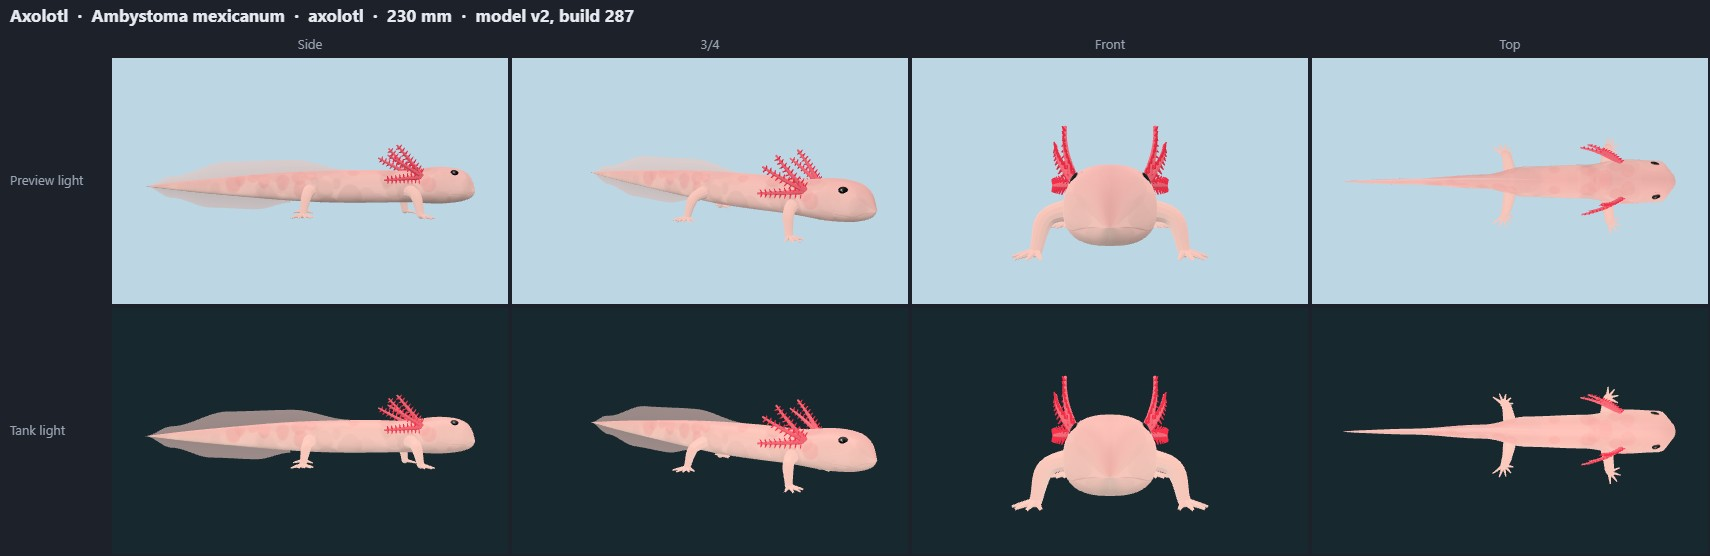
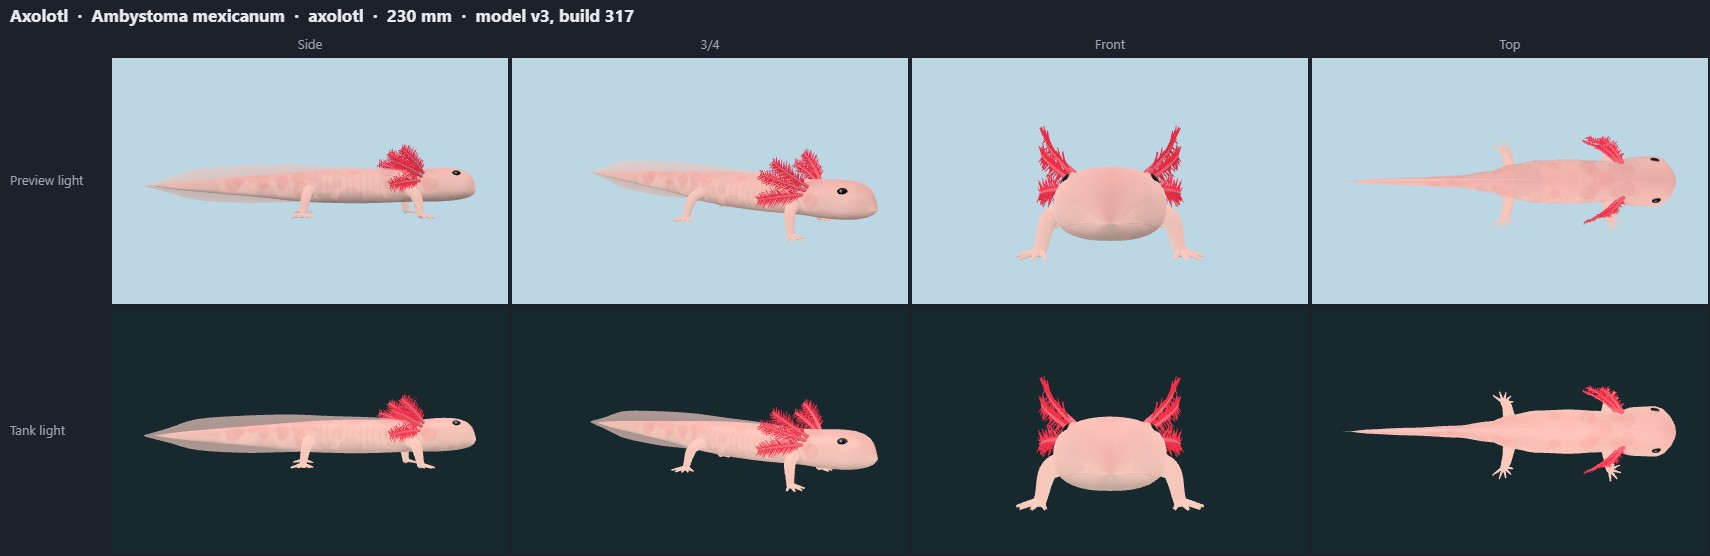
Lane R (audit P2): axolotl feathery gills, trunk, continuous fin; nerite clean shell, low wide foot
Axolotl: filament plumes on the three gill rami, broader head and fuller trunk with costal
grooves, one fin from the shoulders round the tail tip to the vent. Zebra nerite: level aperture
with a thin lip, foot as wide as the shell, smoother rim, no false suture, smooth aperture cut and
seamless stripes (nerite-only Shell3D fields). Models v3 at build 317.

diff --git a/src/render/snail3d.ts b/src/render/snail3d.ts
@@ -24,7 +24,7 @@ function shade(g: THREE.BufferGeometry, dark = 0.28, flank = 0) {
   g.setAttribute('color', new THREE.Float32BufferAttribute(col, 3));
 }
 
-const TH = 160, PH = 24; // samples along the coil, around the whorl
+const TH = 160, PH0 = 24; // samples along the coil, around the whorl (a shell's own `ph` overrides)
 
 /** A coil's frame: growth k per radian, total angle T, the whorl centre / tangent at angle th (shell frame, coil axis = y, spire up). */
 function coil(s: Shell3D) {
@@ -63,7 +63,7 @@ export function sutures(s: Shell3D): [number, number] | null {
  * Then a dark mantle cavity closes it, its rim on duplicated lip vertices so the lip keeps a crisp edge.
  */
 function rawShell(s: Shell3D) {
-  const { T, k, pt } = coil(s), drop = s.drop, pos: number[] = [], uv: number[] = [], idx: number[] = [];
+  const PH = s.ph ?? PH0, { T, k, pt } = coil(s), drop = s.drop, pos: number[] = [], uv: number[] = [], idx: number[] = [];
   const C = new THREE.Vector3(...pt(T, 0, 0));
   const tan = new THREE.Vector3(k * Math.cos(T) - Math.sin(T), -k * drop, k * Math.sin(T) + Math.cos(T)).normalize();
   const b = (s.incl ?? 0) * Math.PI / 180, n = tan.clone().multiplyScalar(Math.cos(b)).add(new THREE.Vector3(0, -Math.sin(b), 0)).normalize();
@@ -73,11 +73,24 @@ function rawShell(s: Shell3D) {
     const ph = Math.PI * 2 * j / PH, d = (t: number) => P.set(...pt(t, ph)).sub(C).dot(n);
     let t = T;
     for (let it = 0; it < 6; it++) { const e = 1e-4, f0 = d(t), f1 = (d(t + e) - f0) / e; if (Math.abs(f1) < 1e-6) break; t -= f0 / f1; }
+    if (s.fillCut) return Math.abs(t - T) < 0.6 && Math.abs(d(t)) < 1e-4 ? t : NaN;
     return Math.max(T - 0.6, Math.min(T + 0.6, t)); // a fast-growing coil (nerite) can find a far crossing: stay on the last whorl
   });
+  // `fillCut`: where the inner side of the whorl never meets the plane (a nerite's columella), run the cut on smoothly
+  // between the rows that do, so the rim has no jumps (clamped, those rows ended at +-0.6 alternately: a crease)
+  const ok = ends.map(Number.isFinite);
+  if (!ok.some(Boolean)) ends.fill(T);
+  else for (let j = 0; j < PH; j++) if (!ok[j]) {
+    let a = j, b = j; do a = (a - 1 + PH) % PH; while (!ok[a]); do b = (b + 1) % PH; while (!ok[b]);
+    const da = (j - a + PH) % PH || PH, db = (b - j + PH) % PH || PH, w = da / (da + db), k = (1 - Math.cos(Math.PI * w)) / 2;
+    ends[j] = ends[a] + (ends[b] - ends[a]) * k;
+  }
+  if (!ok[PH]) ends[PH] = ends[0];
+  // with `fillCut` the paint follows the coil's angle (each row ends at its own angle: by sample, stripes stepped row to row)
+  const end = Math.max(...ends);
   for (let i = 0; i <= TH; i++) for (let j = 0; j <= PH; j++) {
     const u = i / TH, th = ends[j] * u, w = Math.min(1, Math.max(0, (u - 1 + LIP) / LIP)), f = 1 + (F - 1) * w * w * (3 - 2 * w);
-    pos.push(...pt(th, Math.PI * 2 * j / PH, f)); uv.push(u, j / PH);
+    pos.push(...pt(th, Math.PI * 2 * j / PH, f)); uv.push(s.fillCut ? th / end : u, j / PH);
   }
   const R = PH + 1;
   for (let i = 0; i < TH; i++) for (let j = 0; j < PH; j++) { const a = i * R + j, c = a + R; idx.push(a, c, a + 1, a + 1, c, c + 1); }
@@ -102,7 +115,7 @@ function rawShell(s: Shell3D) {
  * shell (lift 0) stands on the ground. userData.lip / open = the aperture ring and the way it faces, body frame.
  */
 function shellGeometry(s: Shell3D, lift: number) {
-  const { g, n, rim, cap } = rawShell(s);
+  const PH = s.ph ?? PH0, { g, n, rim, cap } = rawShell(s);
   const down = new THREE.Vector3(...(s.open ?? [0.25, -1, 0])).normalize(), q1 = new THREE.Quaternion().setFromUnitVectors(n, down);
   const flat = (v: THREE.Vector3) => v.clone().projectOnPlane(down).normalize();
   const spire = flat(new THREE.Vector3(0, 1, 0).applyQuaternion(q1)), want = flat(new THREE.Vector3(...s.axis));
@@ -139,10 +152,12 @@ function shellTexture(s: Shell3D, sp: Pick<SnailSpec, 'shell' | 'mark'>) {
   const r = (() => { let a = 7; return () => ((a = (a * 16807) % 2147483647) / 2147483647); })();
   x.strokeStyle = sp.mark;
   if (s.mark === 'axial') { // zebra: wavy stripes across the whorl, fourteen per turn
+    // one whole sine wave round the whorl, so a stripe meets itself where the paint wraps (an S-curve chevroned there);
+    // drawn on past both edges so the slanted stroke's flat ends do not notch the rows the wrap lands on
     const n = Math.round(s.turns * 14);
     for (let i = 0; i < n; i++) {
       const u = (i + 0.5) / n * W; x.globalAlpha = 0.85; x.lineWidth = W / n * 0.38;
-      x.beginPath(); x.moveTo(u, 0); x.bezierCurveTo(u - W / n * 0.5, H * 0.33, u + W / n * 0.5, H * 0.66, u, H); x.stroke();
+      x.beginPath(); for (let k = -4; k <= 36; k++) x.lineTo(u + W / n * 0.3 * Math.sin(k / 32 * Math.PI * 2), H * k / 32); x.stroke();
     }
   } else if (s.mark === 'spiral') { // faint bands along the coil
     for (const v of [0.1, 0.3, 0.62]) { x.globalAlpha = 0.4; x.fillStyle = sp.mark; x.fillRect(0, v * H, W, H * 0.04); }
@@ -156,7 +171,7 @@ function shellTexture(s: Shell3D, sp: Pick<SnailSpec, 'shell' | 'mark'>) {
     for (let i = 0; i < n; i++) { const u = (i + 0.5) / n * W; x.globalAlpha = 0.45; x.lineWidth = W / n * 0.18; x.beginPath(); x.moveTo(u, 0); x.lineTo(u - 6, H); x.stroke(); }
   }
   // the suture: where each whorl runs in under the one before it, a dark seam and a little shade just below it
-  const su = sutures(s);
+  const su = s.seam === false ? null : sutures(s);
   if (su) {
     const y = row(su[1]) * H;
     const sh = x.createLinearGradient(0, y, 0, y + H * 0.08);
@@ -184,7 +199,7 @@ function footGeometry(s: Shell3D, h: number) {
 }
 
 /** The head: a rounded snout over the front of the foot, the tentacles on top of it. Returns its centre and radius. */
-const headAt = (s: Shell3D, h: number) => { const { L, c, w } = footSpan(s), r = Math.max(0.045, L * w * 0.62); return { x: c + L - r, y: h * 0.82, r }; };
+const headAt = (s: Shell3D, h: number) => { const { L, c, w } = footSpan(s), r = s.head ?? Math.max(0.045, L * w * 0.62); return { x: c + L - r, y: h * 0.82, r }; };
 function headGeometry(s: Shell3D, h: number) {
   const { x, y, r } = headAt(s, h), g = new THREE.SphereGeometry(1, 20, 12);
   g.scale(r * 1.4, r * 0.75, r * 0.85).translate(x, y, 0);
@@ -278,15 +293,15 @@ export function snailBody(art: string, w: number) {
     const m = new THREE.MeshBasicMaterial({ vertexColors: true, color: new THREE.Color(sp.foot[1]).lerp(new THREE.Color(sp.foot[0]), 0.4) });
     return m;
   });
-  const shell = shellMesh(art, s, sp, FOOT_H), sg = shell.geometry;
-  shell.add(new THREE.Mesh(geo(':plug', () => plugGeometry(s, sg.userData.lip, sg.userData.open, FOOT_H)), skin)); // turns with the shell (sagShell)
+  const fh = s.footH ?? FOOT_H, shell = shellMesh(art, s, sp, fh), sg = shell.geometry;
+  shell.add(new THREE.Mesh(geo(':plug', () => plugGeometry(s, sg.userData.lip, sg.userData.open, fh)), skin)); // turns with the shell (sagShell)
   grp.add(shell); // first child: sagShell turns children[0]
-  grp.add(new THREE.Mesh(geo(':foot', () => footGeometry(s, FOOT_H)), skin));
-  grp.add(new THREE.Mesh(geo(':head', () => headGeometry(s, FOOT_H)), skin));
-  for (const side of [1, -1]) grp.add(new THREE.Mesh(geo(':tent' + side, () => tentacleGeometry(s, FOOT_H, side)), skin));
+  grp.add(new THREE.Mesh(geo(':foot', () => footGeometry(s, fh)), skin));
+  grp.add(new THREE.Mesh(geo(':head', () => headGeometry(s, fh)), skin));
+  for (const side of [1, -1]) grp.add(new THREE.Mesh(geo(':tent' + side, () => tentacleGeometry(s, fh, side)), skin));
   grp.add(new THREE.Mesh(geo(':sole', () => soleGeometry(s)), mat('sole:' + art, () => new THREE.MeshBasicMaterial({ map: soleTexture(sp) }))));
   grp.scale.setScalar(w);
-  grp.userData.pivot = new THREE.Vector3(s.at - 0.5, FOOT_H * 0.55, 0); // where the shell sits on the foot
+  grp.userData.pivot = new THREE.Vector3(s.at - 0.5, fh * 0.55, 0); // where the shell sits on the foot
   return grp;
 }
 

diff --git a/src/art/herps.ts b/src/art/herps.ts
@@ -180,10 +180,12 @@ function salSide(s: SalSpec): Pt[] {
     [0.78, cv - tr * 0.95], [0.68, cv - tr], [0.55, cv - tr * 1.02], [0.45, cv - tr * 1.06], [0.32, cv - tr * 1.06], [0.2, cv - tr * 1.0],
     [0.1, cv - tr * 0.82], [0.035, cv - tr * 0.5], [0.0, cv - tr * 0.15, 'c'], [0.03, cv + tr * 0.25], [0.1, cv + tr * 0.55], [0.2, cv + tr * 0.72], [0.32, cv + tr * 0.82], [0.44, cv + tr * 0.9],
     [0.52, cv + tr], [0.68, cv + tr], [0.8, cv + tr * 0.95], [0.88, cv + hd * 0.85], [0.95, cv + hd * 0.72], [0.99, cv + hd * 0.45]];
-  return [[1.0, cv + hd * 0.25, 'c'], [0.985, cv - hd * 0.6], [0.94, cv - hd * 0.95], [0.87, cv - hd], [0.8, cv - tr * 0.9],
-    [0.7, cv - tr], [0.55, cv - tr * 0.95], [0.42, cv - tr * 0.85], [0.28, cv - tr * 0.6], [0.14, cv - tr * 0.35], [0.0, cv, 'c'],
-    [0.14, cv + tr * 0.35], [0.28, cv + tr * 0.6], [0.42, cv + tr * 0.85], [0.55, cv + tr], [0.7, cv + tr], [0.8, cv + tr * 0.95],
-    [0.88, cv + hd * 0.9], [0.95, cv + hd * 0.8], [0.99, cv + hd * 0.6]];
+  // axolotl: broad flat head, a slight neck behind the gills, a full belly sagging to the vent, the muscular tail tapering
+  // to just short of the fin's tip (the fin carries the outline on round it)
+  return [[1.0, cv + hd * 0.2, 'c'], [0.985, cv - hd * 0.55], [0.95, cv - hd * 0.85], [0.9, cv - hd * 0.92], [0.84, cv - hd * 0.82],
+    [0.78, cv - tr * 0.92], [0.68, cv - tr * 0.98], [0.56, cv - tr * 0.95], [0.46, cv - tr * 0.82], [0.34, cv - tr * 0.62], [0.2, cv - tr * 0.4],
+    [0.09, cv - tr * 0.2], [0.03, cv, 'c'], [0.09, cv + tr * 0.22], [0.2, cv + tr * 0.42], [0.34, cv + tr * 0.66], [0.46, cv + tr * 0.95],
+    [0.56, cv + tr * 1.04], [0.68, cv + tr * 1.06], [0.8, cv + tr * 0.95], [0.88, cv + hd * 0.8], [0.95, cv + hd * 0.7], [0.99, cv + hd * 0.5]];
 }
 
 function drawSal(s: SalSpec, ctx: Ctx, P0: Proj, W: number) {
@@ -193,8 +195,7 @@ function drawSal(s: SalSpec, ctx: Ctx, P0: Proj, W: number) {
   const legY = cv + tr * 0.6, foot = g - 0.004;
   limb(ctx, P, W, [[0.76, legY, 0.013], [0.725, (legY + foot) / 2, 0.01], [0.71, foot, 0.008]], [[0.69, g], [0.73, g]], toe, s.leg, true);
   limb(ctx, P, W, [[0.47, legY, 0.016], [0.43, (legY + foot) / 2, 0.012], [0.41, foot, 0.009]], [[0.38, g], [0.43, g]], toe, s.leg, true);
-  if (s.finTail) fin(ctx, P, W, [[0.62, cv - tr], [0.45, cv - tr - 0.03], [0.25, cv - tr - 0.025], [0.08, cv - 0.03], [0.0, cv, 'c'],
-    [0.08, cv + 0.035], [0.2, cv + tr + 0.015], [0.34, cv + tr + 0.02], [0.44, cv + tr]], [0.3, cv], s.finTail, darker(s.finTail, 0.75), { rays: 0, a: 0.7 });
+  if (s.finTail) { const f = axoFin(cv, tr); fin(ctx, P, W, [...f.top, [0.0, cv, 'c'], ...f.bot] as Pt[], [0.3, cv], s.finTail, darker(s.finTail, 0.75), { rays: 0, a: 0.7 }); }
   if (s.gills) gills(ctx, P, W, s, cv, true);
   // body: tail tip u = 0, head to u = 1
   body(ctx, P, W, salSide(s), cv - hd, cv + tr, shadeOf(s.skin), 0.035, l => {
@@ -207,6 +208,18 @@ function drawSal(s: SalSpec, ctx: Ctx, P0: Proj, W: number) {
   if (s.gills) gills(ctx, P, W, s, cv, false);
   line(ctx, P, W, [[0.995, cv + hd * 0.35], [0.95, cv + hd * 0.42], [0.9, cv + hd * 0.35]], 0.22, 0.003);
   herpEye(ctx, P, W, 0.925, cv - hd * 0.35, hd * 0.28, s.iris, s.pupil);
+}
+
+/**
+ * The axolotl's fin edge (card frame), one membrane: the dorsal fin rises from nothing over the shoulders, stays low
+ * along the back, deepens over the tail, runs round the pointed tip past the muscle and forward underneath to the vent.
+ */
+function axoFin(cv: number, tr: number): { top: [number, number][]; bot: [number, number][] } {
+  return {
+    top: [[0.8, cv - tr * 0.92], [0.7, cv - tr - 0.005], [0.56, cv - tr * 0.95 - 0.012], [0.44, cv - tr * 0.8 - 0.024], [0.3, cv - tr * 0.55 - 0.033],
+      [0.16, cv - tr * 0.3 - 0.035], [0.07, cv - 0.022]],
+    bot: [[0.07, cv + 0.02], [0.16, cv + tr * 0.3 + 0.028], [0.3, cv + tr * 0.55 + 0.024], [0.4, cv + tr * 0.8 + 0.01], [0.47, cv + tr * 0.97]],
+  };
 }
 
 /** Axolotl external gills: three stalks sweeping up and back from behind the head, fringed with filaments. */
@@ -472,20 +485,21 @@ export const HERP3D: Record<string, Herp3D> = {
       { k: 'spots', n: 30, u: [0.35, 0.9], a: [0.8, 1.0], r: [0.004, 0.007], c: '#2a2420', o: 0.7, seed: 13 },
       { k: 'line', pts: [[0.9, 0.62], [0.96, 0.64], [0.995, 0.58]], c: '#0e100c', o: 0.25, w: 0.003 },
     ], 1),
-  // leucistic: pale pink, faint darker mottling; broad flat head, gills, tail fin from mid-back
-  axolotl: sal3D(axo, [[0, 0.003], [0.2, 0.008], [0.42, 0.02], [0.55, 0.045], [0.72, 0.05], [0.84, 0.066], [0.94, 0.062], [1, 0.036]],
+  // leucistic: pale pink, faint darker mottling; broad flat head wider than the neck, a full rounded trunk with costal
+  // grooves down the flanks, the tail flattened side to side; one fin from the shoulders round the tail to the vent;
+  // three feathery gills a side
+  axolotl: sal3D(axo, [[0, 0.003], [0.06, 0.006], [0.2, 0.011], [0.34, 0.017], [0.44, 0.03], [0.5, 0.05], [0.58, 0.063], [0.68, 0.066],
+    [0.76, 0.062], [0.81, 0.058], [0.87, 0.073], [0.93, 0.075], [0.97, 0.063], [1, 0.042]],
     [[0, '#e9b9b4'], [0.5, '#f2cdc6'], [1, '#f6dcd4']], [
       { k: 'spots', n: 16, u: [0.2, 0.9], a: [0.0, 0.6], r: [0.016, 0.024], c: '#e3a7a2', o: 0.35, seed: 21 },
+      ...Array.from({ length: 12 }, (_, i): Mark3D => ({ k: 'line', pts: [[0.535 + i * 0.019, 0.24], [0.53 + i * 0.019, 0.45], [0.535 + i * 0.019, 0.66]], c: '#d39690', o: 0.3, w: 0.0028 })),
       { k: 'line', pts: [[0.9, 0.62], [0.96, 0.66], [0.995, 0.58]], c: '#7a4a48', o: 0.3, w: 0.003 },
     ], 1.15, {
-      fin: {
-        top: [[0.62, axoCv - axo.trunk], [0.45, axoCv - axo.trunk - 0.03], [0.25, axoCv - axo.trunk - 0.025], [0.08, axoCv - 0.03], [0, axoCv]],
-        bot: [[0, axoCv], [0.08, axoCv + 0.035], [0.2, axoCv + axo.trunk + 0.015], [0.34, axoCv + axo.trunk + 0.02], [0.44, axoCv + axo.trunk]],
-        c: '#f0d2cc', o: 0.6,
-      },
+      fin: (() => { const f = axoFin(axoCv, axo.trunk); return { top: [...f.top, [0, axoCv - 0.002]], bot: [[0, axoCv + 0.002], ...f.bot], c: '#f0d2cc', o: 0.68 }; })(),
       gills: {
         at: [0.83, axoCv - axo.head * 0.45, 0.05],
-        tips: [[0.75, axoCv - axo.head - 0.06, 0.075], [0.72, axoCv - axo.head - 0.03, 0.095], [0.71, axoCv - axo.head * 0.3, 0.1]],
+        // top: up and back; middle: back and out; bottom: back, out and a little down. Spread out from the head as a crown.
+        tips: [[0.755, axoCv - axo.head - 0.045, 0.11], [0.725, axoCv - axo.head - 0.012, 0.118], [0.72, axoCv - axo.head * 0.05, 0.122]],
         stalk: '#d9707a', fringe: '#e2505e',
       },
     }),

diff --git a/public/model-sheets/index.html b/public/model-sheets/index.html
@@ -10,7 +10,7 @@ figure { margin: 8px 0 14px; padding: 8px; background: var(--panel); border-radi
 img { display: block; max-width: 100%; height: auto }
 </style></head><body>
 <h1>Model sheets</h1>
-<p>Pre-rendered review images of every TankLook animal model (no WebGL needed): 68 models, 57 species, written at build 309.
+<p>Pre-rendered review images of every TankLook animal model (no WebGL needed): 68 models, 57 species, written at build 317.
 Each sheet shows the Side, 3/4, Front, Top views; top row in the plain preview light, bottom row at true size in the default tank's LED light and water.
 Click a sheet for the full-size image (1710 × 556 px). Interactive version: <a href="../review.html">review.html</a>.</p>
 <h2>Freshwater fish</h2>
@@ -62,7 +62,7 @@ Click a sheet for the full-size image (1710 × 556 px). Interactive version: <a 
 <h2>Freshwater inverts</h2>
 <figure id="cherryshrimp"><figcaption><b>Cherry shrimp</b> · <i>Neocaridina davidi</i> · cherryshrimp · 30 mm · model v2 (build 284, 2026-10-14)</figcaption><a href="cherryshrimp.jpg"><img src="cherryshrimp.jpg" width="1710" height="556" loading="lazy" alt="Cherry shrimp (Neocaridina davidi), model v2: Side, 3/4, Front, Top views, preview light (top row) and tank light (bottom row)"></a></figure>
 <figure id="amano"><figcaption><b>Amano shrimp</b> · <i>Caridina multidentata</i> · amano · 45 mm · model v2 (build 284, 2026-10-14)</figcaption><a href="amano.jpg"><img src="amano.jpg" width="1710" height="556" loading="lazy" alt="Amano shrimp (Caridina multidentata), model v2: Side, 3/4, Front, Top views, preview light (top row) and tank light (bottom row)"></a></figure>
-<figure id="nerite"><figcaption><b>Nerite snail (zebra)</b> · <i>Neritina natalensis</i> · nerite · 25 mm · model v2 (build 288, 2026-10-14)</figcaption><a href="nerite.jpg"><img src="nerite.jpg" width="1710" height="556" loading="lazy" alt="Nerite snail (zebra) (Neritina natalensis), model v2: Side, 3/4, Front, Top views, preview light (top row) and tank light (bottom row)"></a></figure>
+<figure id="nerite"><figcaption><b>Nerite snail (zebra)</b> · <i>Neritina natalensis</i> · nerite · 25 mm · model v3 (build 317, 2026-10-14)</figcaption><a href="nerite.jpg"><img src="nerite.jpg" width="1710" height="556" loading="lazy" alt="Nerite snail (zebra) (Neritina natalensis), model v3: Side, 3/4, Front, Top views, preview light (top row) and tank light (bottom row)"></a></figure>
 <figure id="mystery"><figcaption><b>Mystery snail</b> · <i>Pomacea diffusa</i> · mystery · 55 mm · model v2 (build 288, 2026-10-14)</figcaption><a href="mystery.jpg"><img src="mystery.jpg" width="1710" height="556" loading="lazy" alt="Mystery snail (Pomacea diffusa), model v2: Side, 3/4, Front, Top views, preview light (top row) and tank light (bottom row)"></a></figure>
 <figure id="ramshorn"><figcaption><b>Ramshorn snail</b> · <i>Planorbella duryi</i> · ramshorn · 20 mm · model v2 (build 288, 2026-10-14)</figcaption><a href="ramshorn.jpg"><img src="ramshorn.jpg" width="1710" height="556" loading="lazy" alt="Ramshorn snail (Planorbella duryi), model v2: Side, 3/4, Front, Top views, preview light (top row) and tank light (bottom row)"></a></figure>
 <figure id="trumpet"><figcaption><b>Malaysian trumpet snail</b> · <i>Melanoides tuberculata</i> · trumpet · 25 mm · model v2 (build 288, 2026-10-14)</figcaption><a href="trumpet.jpg"><img src="trumpet.jpg" width="1710" height="556" loading="lazy" alt="Malaysian trumpet snail (Melanoides tuberculata), model v2: Side, 3/4, Front, Top views, preview light (top row) and tank light (bottom row)"></a></figure>
@@ -85,7 +85,7 @@ Click a sheet for the full-size image (1710 × 556 px). Interactive version: <a 
 <figure id="treefrog"><figcaption><b>White's tree frog</b> · <i>Ranoidea caerulea</i> · treefrog · 100 mm · model v3 (build 297, 2026-10-14)</figcaption><a href="treefrog.jpg"><img src="treefrog.jpg" width="1710" height="556" loading="lazy" alt="White's tree frog (Ranoidea caerulea), model v3: Side, 3/4, Front, Top views, preview light (top row) and tank light (bottom row)"></a></figure>
 <figure id="firetoad"><figcaption><b>Fire-bellied toad</b> · <i>Bombina orientalis</i> · firetoad · 45 mm · model v3 (build 297, 2026-10-14)</figcaption><a href="firetoad.jpg"><img src="firetoad.jpg" width="1710" height="556" loading="lazy" alt="Fire-bellied toad (Bombina orientalis), model v3: Side, 3/4, Front, Top views, preview light (top row) and tank light (bottom row)"></a></figure>
 <figure id="firenewt"><figcaption><b>Chinese fire-bellied newt</b> · <i>Cynops orientalis</i> · firenewt · 90 mm · model v3 (build 297, 2026-10-14)</figcaption><a href="firenewt.jpg"><img src="firenewt.jpg" width="1710" height="556" loading="lazy" alt="Chinese fire-bellied newt (Cynops orientalis), model v3: Side, 3/4, Front, Top views, preview light (top row) and tank light (bottom row)"></a></figure>
-<figure id="axolotl"><figcaption><b>Axolotl</b> · <i>Ambystoma mexicanum</i> · axolotl · 230 mm · model v2 (build 287, 2026-10-14)</figcaption><a href="axolotl.jpg"><img src="axolotl.jpg" width="1710" height="556" loading="lazy" alt="Axolotl (Ambystoma mexicanum), model v2: Side, 3/4, Front, Top views, preview light (top row) and tank light (bottom row)"></a></figure>
+<figure id="axolotl"><figcaption><b>Axolotl</b> · <i>Ambystoma mexicanum</i> · axolotl · 230 mm · model v3 (build 317, 2026-10-14)</figcaption><a href="axolotl.jpg"><img src="axolotl.jpg" width="1710" height="556" loading="lazy" alt="Axolotl (Ambystoma mexicanum), model v3: Side, 3/4, Front, Top views, preview light (top row) and tank light (bottom row)"></a></figure>
 
 
 </body></html>

diff --git a/src/render/herp3d.ts b/src/render/herp3d.ts
@@ -360,14 +360,18 @@ function limbMaterial(art: string, h: Herp3D) {
 
 // ---------- axolotl extras ----------
 
-/** Tail fin membranes on the midline, from the body's top (bottom) out to the fin's edge. */
+/** Tail fin membranes on the midline, from the body's top (bottom) out to the fin's edge. The edge is a smooth spline
+ *  through its points; past the muscle's tip (u < the body's u0) the membrane runs on from the tip's centre line. */
 function finGeometry(b: Body, f: NonNullable<Herp3D['fin']>) {
   const pos: number[] = [], col: number[] = [], idx: number[] = [];
-  const edge = (e: [number, number][], u: number) => { const s = [...e].sort((p, q) => p[0] - q[0]); for (let i = 1; i < s.length; i++) if (u <= s[i][0]) { const k = (u - s[i - 1][0]) / (s[i][0] - s[i - 1][0]); return s[i - 1][1] + (s[i][1] - s[i - 1][1]) * smooth(0, 1, k); } return s[s.length - 1][1]; };
+  const edgeFn = (e: [number, number][]) => {
+    const s = new THREE.SplineCurve([...e].sort((p, q) => p[0] - q[0]).map(([u, v]) => new THREE.Vector2(u, v))).getPoints(200);
+    return (u: number) => { for (let i = 1; i < s.length; i++) if (u <= s[i].x) { const k = (u - s[i - 1].x) / (s[i].x - s[i - 1].x || 1); return s[i - 1].y + (s[i].y - s[i - 1].y) * k; } return s[s.length - 1].y; };
+  };
   for (const [e, sg] of [[f.top, -1], [f.bot, 1]] as const) {
-    const ua = Math.max(b.u0, Math.min(...e.map(p => p[0]))), ub = Math.max(...e.map(p => p[0])), n = 40, base = pos.length / 3;
+    const ua = Math.min(...e.map(p => p[0])), ub = Math.max(...e.map(p => p[0])), n = 80, base = pos.length / 3, edge = edgeFn(e);
     for (let i = 0; i <= n; i++) {
-      const u = ua + (ub - ua) * i / n, s = b.sec(u), body = s.vc + sg * s.hv * 0.85, out = edge(e, u);
+      const u = ua + (ub - ua) * i / n, s = b.sec(Math.max(b.u0 + 1e-4, u)), body = s.vc + sg * s.hv * 0.85, out = edge(u);
       const tip = sg < 0 ? Math.min(out, body) : Math.max(out, body);
       pos.push(u - 0.5, -body, 0, u - 0.5, -tip, 0); col.push(0.82, 0.82, 0.82, 1, 1, 1);
     }
@@ -378,23 +382,32 @@ function finGeometry(b: Body, f: NonNullable<Herp3D['fin']>) {
   return g;
 }
 
-/** Gill stalks sweeping up and back from behind the head (the + side), and their fringe of short filaments. */
+/**
+ * Gill stalks (rami) sweeping up, back and out from behind the head (the + side), each feathered along its length by
+ * fine filaments: thin, curved, swept toward the tip and drooping, longest mid-stalk, irregular in length and spacing,
+ * fanned to both sides of the stalk and a little off its plane. So the gill reads as a soft plume, not a comb.
+ */
 function gillGeometry(gl: NonNullable<Herp3D['gills']>) {
-  const base = P3(gl.at[0], gl.at[1], gl.at[2]), stalks: THREE.BufferGeometry[] = [], fringe: THREE.BufferGeometry[] = [];
-  for (const t of gl.tips) {
-    const tip = P3(t[0], t[1], t[2]), via = base.clone().lerp(tip, 0.5).add(new THREE.Vector3(0, 0, 0.015)), curve = new THREE.QuadraticBezierCurve3(base, via, tip);
-    const s = taperTube(curve, 0.0075, 10, 6); s.deleteAttribute('uv'); stalks.push(s.toNonIndexed());
-    const n = 9;
-    for (let j = 1; j <= n; j++) {
-      const f = j / (n + 1), p = curve.getPoint(f), d = curve.getTangent(f), up = new THREE.Vector3(0, 1, 0).projectOnPlane(d).normalize();
-      const out = new THREE.Vector3().crossVectors(d, up).normalize(), len = 0.02 * (1 - 0.45 * f);
+  const stalks: THREE.BufferGeometry[] = [], fringe: THREE.BufferGeometry[] = [], r = rng(41), Z = new THREE.Vector3(0, 0, 1);
+  gl.tips.forEach((t, i) => {
+    // the three bases stacked down the side of the neck, the top one highest
+    const base = P3(gl.at[0] - 0.004 * i, gl.at[1] + (i - 1) * 0.011, gl.at[2]), tip = P3(t[0], t[1], t[2]);
+    const via = base.clone().lerp(tip, 0.45).add(new THREE.Vector3(0, 0.006, 0.018)), curve = new THREE.QuadraticBezierCurve3(base, via, tip);
+    const s = taperTube(curve, 0.0058, 14, 6); s.deleteAttribute('uv'); stalks.push(s.toNonIndexed());
+    const n = 26, len0 = 0.026 * Math.min(1, curve.getLength() / 0.1);
+    for (let j = 0; j < n; j++) {
+      const f = 0.1 + 0.88 * (j + 0.3 + 0.4 * r()) / n, p = curve.getPoint(f), d = curve.getTangent(f);
+      const w = new THREE.Vector3().crossVectors(Z, d).normalize(); // across the stalk, in the plume's plane
       for (const sg of [1, -1]) {
-        const dir = up.clone().multiplyScalar(sg).addScaledVector(out, 0.35 * Math.sign(out.z || 1)).addScaledVector(d, 0.3).normalize();
-        const q = taperTube(new THREE.LineCurve3(p.clone(), p.clone().addScaledVector(dir, len)), 0.0032, 3, 4); q.deleteAttribute('uv'); fringe.push(q.toNonIndexed());
+        const len = len0 * Math.sin(Math.PI * (0.1 + 0.82 * f)) ** 0.6 * (0.75 + 0.5 * r());
+        const dir = w.clone().multiplyScalar(sg).addScaledVector(d, 0.6 + 0.25 * r()).addScaledVector(Z, (r() - 0.35) * 0.7).normalize();
+        const a = p.clone().addScaledVector(w, sg * 0.002), e = a.clone().addScaledVector(dir, len);
+        const m = a.clone().lerp(e, 0.5).addScaledVector(d, len * 0.12).add(new THREE.Vector3(0, -len * 0.1, 0)); // curls toward the tip, droops
+        const q = taperTube(new THREE.QuadraticBezierCurve3(a, m, e), 0.0017, 5, 4); q.deleteAttribute('uv'); fringe.push(q.toNonIndexed());
       }
     }
-  }
-  return { stalks: shade(mergeGeometries(stalks)!, 0.3), fringe: shade(mergeGeometries(fringe)!, 0.3) };
+  });
+  return { stalks: shade(mergeGeometries(stalks)!, 0.3), fringe: shade(mergeGeometries(fringe)!, 0.22) };
 }
 
 // ---------- assembly ----------

diff --git a/src/art/snails.ts b/src/art/snails.ts
@@ -39,10 +39,13 @@ export const SNAIL_META: Record<Kind, { side: number; glass: number }> = {
 // tilt: then turned this many degrees about the side axis (+ leans the spire back);
 // incl: the aperture's plane turned this many degrees from the whorl's cross-section toward the shell's base (default 0),
 // as a real aperture faces down rather than straight along the coil; lip: how far its last stretch flares (default 0.12);
-// footEnd / footW: where the foot ends (card u, default 0.97) and its half-width (share of its half-length, default 0.32)
-export interface Shell3D { turns: number; grow: number; drop: number; ap: [number, number]; axis: [number, number, number]; size: number; tall: number; at: number; foot: number; tent: number; mark: 'axial' | 'spiral' | 'growth' | 'spots'; open?: [number, number, number]; tilt?: number; incl?: number; lip?: number; footEnd?: number; footW?: number }
+// footEnd / footW: where the foot ends (card u, default 0.97) and its half-width (share of its half-length, default 0.32);
+// footH: the foot's height (default 0.22); head: the head's radius (default from the foot's width); ph: samples around the whorl (default 24); seam: false = no painted suture
+// (a nerite's body whorl envelops the earlier ones, so a seam along it would be a false crease); fillCut: rows where the
+// aperture plane misses the whorl take their cut from the rows either side instead of a clamp (see rawShell)
+export interface Shell3D { turns: number; grow: number; drop: number; ap: [number, number]; axis: [number, number, number]; size: number; tall: number; at: number; foot: number; tent: number; mark: 'axial' | 'spiral' | 'growth' | 'spots'; open?: [number, number, number]; tilt?: number; incl?: number; lip?: number; footEnd?: number; footW?: number; footH?: number; head?: number; ph?: number; seam?: boolean; fillCut?: boolean }
 export const SHELL3D: Record<Kind, Shell3D> = {
-  nerite: { turns: 1.8, grow: 10, drop: 0.2, ap: [0.95, 0.95], incl: 15, axis: [-0.3, 0.35, 0.9], size: 0.8, tall: 0.42, at: 0.46, foot: 0.12, footEnd: 0.9, footW: 0.36, tent: 0.06, mark: 'axial' },
+  nerite: { turns: 1.8, grow: 10, drop: 0.2, ap: [0.95, 0.95], incl: 15, open: [0.05, -1, 0], lip: 0.03, axis: [-0.3, 0.35, 0.9], size: 0.8, tall: 0.42, at: 0.46, foot: 0.2, footEnd: 0.95, footW: 0.76, footH: 0.13, head: 0.085, ph: 48, seam: false, fillCut: true, tent: 0.085, mark: 'axial' },
   mystery: { turns: 4.5, grow: 2.5, drop: 1.5, ap: [0.66, 1], incl: 30, axis: [-0.55, 0.8, 0.25], size: 0.66, tall: 0.78, at: 0.42, foot: 0.02, footW: 0.4, tent: 0.1, mark: 'spiral' },
   ramshorn: { turns: 4, grow: 1.9, drop: 0, ap: [0.42, 0.45], incl: 0, open: [1, -0.25, 0], axis: [0, 0, -1], size: 0.7, tall: 0.7, at: 0.44, foot: 0.02, tent: 0.06, mark: 'growth' },
   trumpet: { turns: 9, grow: 1.32, drop: 7, ap: [0.45, 1.5], incl: 30, axis: [-0.9, 0.45, 0], size: 0.72, tall: 0.32, at: 0.35, foot: 0.32, tent: 0.06, mark: 'spots' },

diff --git a/HANDOFF.md b/HANDOFF.md
@@ -2,6 +2,25 @@
 
 Living file. Project state and dated decisions go here; update in place.
 
+## Lane R: anatomy audit P2, axolotl + zebra nerite (2026-10-14; branch `p2-small`, port 5493; Nathan approved both sheets; pushed to main)
+Owns `src/art/herps.ts`, `src/render/herp3d.ts`, `src/art/snails.ts`, `src/render/snail3d.ts`. Models v3 at build 317; no
+other model's fingerprint changed (other snails, hermit crab, frogs, newt identical).
+- **Axolotl:** gills = three rami a side (bases stacked down the neck, tips spread out as a crown), each feathered by ~52
+  fine curved filaments (seeded lengths, longest mid-stalk, swept to the tip and drooping) instead of comb teeth
+  (`gillGeometry`). Trunk: broad flat head, neck pinch, fuller wider trunk, belly sagging to the vent, 12 faint costal
+  grooves (`line` marks). Fin: one membrane (`axoFin` in herps.ts, shared by the 2D card) from the shoulders, low along
+  the back, deepening over the tail, round a pointed tip past the muscle (body tip now u 0.03) and forward to the vent;
+  `finGeometry` takes a spline edge and runs past the body's tip.
+- **Zebra nerite:** level aperture (`open` [0.05,-1,0]) with a thin lip (0.03), so the shell sits low over the foot;
+  foot 0.13 high (`footH`) and as wide as the shell (`footW` 0.76, Nathan: "their bodies are the same width as the
+  shells"), head radius fixed (`head` 0.085), tentacles 0.085. New Shell3D fields, nerite only: `ph` 48 (smoother rim),
+  `seam: false` (the painted suture ran along the body whorl as a false crease), `fillCut` (rows where the aperture plane
+  misses the whorl take their cut from their neighbours instead of clamping to +-0.6, and the paint follows the coil
+  angle). Zebra stripes are one full sine round the whorl, drawn past the texture edges (the slanted stroke ends had
+  notched the stripes along the wrap line).
+- Open: mystery, turbo and trumpet also clamp their aperture cut (rows jump +-0.6 on the inner side); `fillCut` would fix
+  them but changes their approved look, so not switched on. 2D side cards unchanged except the axolotl's fin outline.
+
 ## Lane N: shareable scene links (2026-10-14; branch `share-url`; review item R12; pushed to main)
 
 - **What**: File toolbar button **Copy share link** (`index.html`, handler in `ui/panels.ts`). The link is the page
